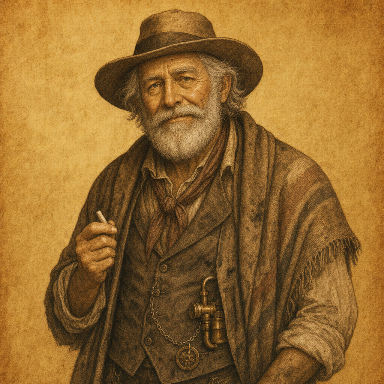
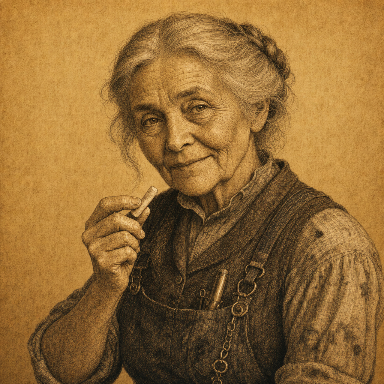
art: the Elder becomes a woman in both her portraits, and the Old Digger's portrait is the machine (owner A8, F-AGE-1 + F-AGE-3, 2026-09-07)
Owner ruling 2026-09-07, verbatim: "A8 F-AGE1: has to be adapted to be woman ...
F-AGE3: I don't understand the issue, a robot gets reprogrammed, that does not
change its visual appearance".

Three plates processed by the row-60 recipe (node scripts/extract-alpha.mjs
--full-bleed --size 384, constant alpha plane dropped): 384x384, 3-channel, 0
transparent px, 0 magenta px, max per-channel RGB delta 0 across the drop on all
three. The recipe was RE-PROVEN first, not inherited: three already-shipped
plates (townsfolk-elder-e2 from row 74, townsfolk-newsie-e5 and
townsfolk-tavernkeeper-e7 from row 75) re-processed BYTE-IDENTICAL, and the
measuring instrument reproduced row 74's and row 75's published corner and
centroid statistics exactly before it was trusted on anything new.

  townsfolk-elder.png     REPLACED  TL 139.7 / TR 137.5 / mean 138.6, centroid 194.8
  townsfolk-elder-e2.png  REPLACED  TL 134.0 / TR 128.4 / mean 131.2, centroid 193.1
  townsfolk-old-digger.png    NEW   TL 144.8 / TR 143.2 / mean 144.0, centroid 193.4

3/3 corner means inside the accepted 124-145 band, 6/6 corners clear the 120
floor (lowest 128.4), processed-vs-raw drift <= 0.1, centroids inside the
registered set's 184.3-198.5, so 50% still centres them. All three raws
re-measured from disk agree with artifacts/canon-calls-a8/generation.jsonl and
LEDGER row 76 exactly.

EYES-ON (the honesty guard's own test, evidence in reviews/shots-canon-calls-a8):
[…]

diff --git a/src/story/speakers.ts b/src/story/speakers.ts
@@ -85,7 +85,8 @@ export type StorySpeakerId =
   | 'preacher-e8'
   | 'preacher-e9'
   | 'preacher-e10'
-  | 'salvage-king-e8';
+  | 'salvage-king-e8'
+  | 'old-digger';
 
 export type StorySpeaker = {
   id: StorySpeakerId;
@@ -94,6 +95,21 @@ export type StorySpeaker = {
   objectPosition: string;
 };
 
+// THE ELDER IS A WOMAN, in the art as in the text (owner ruling 2026-09-07, verbatim: "A8 F-AGE1:
+// has to be adapted to be woman"; lore/characters.md:35 carries it as canon). The lore has written
+// her as "she" since the first cast sheet (lore/characters.md:32-33, her chart, her chalk, her chair
+// at lore/STORYBOOK.md:89) while the shipped plate was a bearded man - F-AGE-1, raised by the first
+// aging batch and ruled here. The FILENAMES below do not move: `townsfolk-elder.png` and
+// `townsfolk-elder-e2.png` are REPLACED in place by a woman's portrait and its aged E2 (git keeps
+// every version; the superseded man is recoverable from history, and the raw that made him,
+// assets/raw/townsfolk-elder.png, is retained on disk under CLAUDE.md section 4.10b and never
+// deleted). Sources: assets/raw/tf-elder-woman-e1.png and tf-elder-woman-e2.png, LEDGER row 77.
+// TIER CHANGE, stated because it is visible and not a defect: the superseded plate was a CHROMA-KEYED
+// cutout (RGBA, 68,277 transparent px of 147,456) because its 768x768 raw was 46.0% #8a8a8a ground;
+// the new plate is a FULL-BLEED parchment bust like every one of the 80 era portraits below and like
+// `char-prospector-portrait.png`, which has shipped in this same card since M1. The Elder's four
+// remaining E1 siblings (tavernkeeper, clerk, schoolteacher, preacher) are still keyed cutouts, so E1
+// now mixes the two tiers - as it already did through the Prospector, the era's most-seen speaker.
 const elderPortraitUrl = new URL('../../assets/processed/townsfolk-elder.png', import.meta.url).href;
 const tavernkeeperPortraitUrl = new URL('../../assets/processed/townsfolk-tavernkeeper.png', import.meta.url).href;
 const clerkPortraitUrl = new URL('../../assets/processed/townsfolk-assay-clerk.png', import.meta.url).href;
@@ -116,13 +132,20 @@ const preacherPortraitUrl = new URL('../../assets/processed/townsfolk-preacher.p
 // spelling. THE CHEN PARENTS are new faces rather than returning ones, so they carry their trade
 // where a 74x90 card can read it: lore/characters.md:54-55 names them CHEN WEI the pressman and CHEN
 // LAN the typesetter, and the given name leads here exactly as it leads in "Mei Chen".
-// WITHHELD, and stated rather than papered over (honesty guard, F-AGE-3): a nineteenth plate,
-// assets/raw/tf-old-digger-e10.png, was generated as "an ancient man" - but THE OLD DIGGER IS A
-// MACHINE in canon: the E9 boss, an ancient terraformer executing the Baron's century-old survey
-// (lore/STORYBOOK.md:544, :560, :675, ruling #15 at :722; src/game/Game.ts:1169 emits it as a boss;
-// src/game/TileStateStore.ts:12 flags it as kept machine #5). The plate is a good old prospector and
-// reads clearly at 120px, but it is not that character, so it is NOT registered and NOT processed
-// into assets/processed. The raw is kept. Owner call, LEDGER row 74.
+// RULED 2026-09-07 (owner, verbatim: "F-AGE3: I don't understand the issue, a robot gets
+// reprogrammed, that does not change its visual appearance"), and the withheld-plate note that stood
+// here is retired by it. F-AGE-3 asked whether the Old Digger's anthropomorphised plate
+// (assets/raw/tf-old-digger-e10.png, "an ancient man") could be registered under some other name; the
+// answer is that the question was the wrong one. THE OLD DIGGER IS A MACHINE and stays one through
+// the reprogramming, so ITS PORTRAIT IS THE MACHINE: lore/STORYBOOK.md:561 now carries the ruling
+// verbatim ("its portrait is the machine plate, never a face"), :544 makes it the Baron's charter,
+// :560 opens the boss with "no kill path; the fight is a REPROGRAMMING", :565 keeps it working as
+// kept machine #5 and :676 tabulates it; ruling #15 at :723; src/game/Game.ts:1205 emits its boss
+// lifecycle as `old-digger` and src/game/TileStateStore.ts:12 flags the kept machine.
+// `old-digger` below is therefore registered against assets/raw/tf-old-digger-machine-e9.png (the
+// bucket-wheel plate the batch-2 run minted as a machine alternate and LEDGER row 76 retained), NOT
+// against the man-face raw, which stays withheld, unprocessed and unregistered exactly as it was.
+// LEDGER row 77.
 const newsieE2PortraitUrl = new URL('../../assets/processed/townsfolk-newsie-e2.png', import.meta.url).href;
 const elderE2PortraitUrl = new URL('../../assets/processed/townsfolk-elder-e2.png', import.meta.url).href;
 const tavernkeeperE2PortraitUrl = new URL('../../assets/processed/townsfolk-tavernkeeper-e2.png', import.meta.url).href;
@@ -148,11 +171,20 @@ const schoolteacherE4PortraitUrl = new URL('../../assets/processed/townsfolk-sch
 // (CLAUDE.md section 8): `combine-defector-e6` and `combine-defector-e7` are one man in two
 // eras, `moon-born-child-e8` and `moon-born-child-e9` one child before and after growing. The
 // suffix also stops a reader assuming an E10 plate exists where none does.
-// TIER NOTE (measured, not inherited): these plates are FULL-BLEED parchment busts with NO
-// chroma key - assets/raw/tf-reactor-steward-e6.png keys 0/147456 px at the pipeline's own
-// #8a8a8a, while assets/raw/townsfolk-elder.png (the source of the seven above) is 46.22%
-// key-coloured. They are processed full-bleed at 384x384 like `char-prospector-portrait.png`,
-// which is the same tier and already one of the seven.
+// TIER NOTE (measured, not inherited). RE-STATED 2026-09-07 (canon-calls-a8): the exemplar this note
+// used to name has changed tier. It read "assets/raw/townsfolk-elder.png (the source of the seven
+// above) is 46.22% key-coloured" - true of ONE of the seven when written, and false now, because the
+// Elder's plate is a full-bleed woman's portrait from tf-elder-woman-e1.png and its old raw feeds
+// nothing any more. The contrast the note exists to draw is unchanged, so it is re-measured against a
+// raw that is still keyed. Definition stated so the numbers are reproducible: the extractor's own
+// predicate, keyDist = max per-channel distance from #8a8a8a <= tol 26 (scripts/extract-alpha.mjs:81),
+// counted over every pixel at native size. Under it, assets/raw/townsfolk-tavernkeeper.png (768x768,
+// one of the four E1 plates still keyed) is 41.83% key-coloured - 246,734 of 589,824 px - while
+// assets/raw/tf-reactor-steward-e6.png keys 0.00% and assets/raw/tf-elder-woman-e1.png keys 0/1048576.
+// The superseded 46.22% could not be reproduced under any of three readings of the old raw (46.01% at
+// native tol 26, 46.11% at tol+feather 40, 45.90% resampled to 384 at tol 26), which is why this note
+// now pins its definition instead of a bare number. These plates are processed full-bleed at 384x384
+// like `char-prospector-portrait.png`, which is the same tier and already one of the seven.
 // THE E5 / E8 / E10 CAST (portraits-e5-e10-generated-batch, 2026-09-06), the half of the era cast
 // the processing batch above could not serve because its plates did not exist yet. Owner ruling
 // 2026-09-06, verbatim: "if there are still higgsfield credits, use them". The ten plates were
@@ -249,6 +281,14 @@ const preacherE10PortraitUrl = new URL('../../assets/processed/townsfolk-preache
 // entry all say e8; the RAW keeps its minted name because assets/raw is never rewritten. A reader
 // looking for tf-salvage-king-e8.png will not find it; the E5 file is the one.
 const salvageKingE8PortraitUrl = new URL('../../assets/processed/townsfolk-salvage-king-e8.png', import.meta.url).href;
+
+// THE OLD DIGGER, E9's boss and the only speaker in this file that is not a person. Its plate is the
+// MACHINE (the ruling is quoted above and at lore/STORYBOOK.md:561): a bucket-wheel terraformer on
+// tracks, the Baron's crossed pickaxes struck on its drum, red spoil under it. The id carries NO era
+// suffix on purpose - the suffix convention exists because a person's face changes era to era, and
+// this one does not: "the Old Digger looks the same before and after the swap, in E9 and in any later
+// era" (STORYBOOK:561). A later era that gives it a line reuses this id.
+const oldDiggerPortraitUrl = new URL('../../assets/processed/townsfolk-old-digger.png', import.meta.url).href;
 
 // objectPosition for the era cast is '50% 42%' across the board, and that is MEASURED rather
 // than copied. The card crops with object-fit: cover into a 74x90 box (58x76 mobile), so a
@@ -856,6 +896,30 @@ export const STORY_SPEAKERS: Record<StorySpeakerId, StorySpeaker> = {
     id: 'salvage-king-e8',
     name: 'The Salvage King',
     portraitUrl: salvageKingE8PortraitUrl,
+    objectPosition: ERA_CAST_OBJECT_POSITION,
+  },
+
+  // THE OLD DIGGER (owner ruling 2026-09-07, F-AGE-3; LEDGER row 77). REGISTERED WITH NO BEAT, and
+  // that is the measured outcome rather than an omission: all four e9-digger-* beats are other
+  // speakers' reports ABOUT the machine, and the honesty guard in this batch's master re-keys only a
+  // line that is the machine's OWN words. The per-beat reasoning is in the LEDGER row; row 74's five
+  // beatless portraits are the precedent. A future E9/E10 line written in the Digger's own voice
+  // reaches this id and finds it ready.
+  // NAME: "The Old Digger" keeps its capital article for the same reason "The Salvage King",
+  // "The Baron", "The Eldest Heir" and "The Quack" above do - the title IS the name canon uses
+  // (lore/STORYBOOK.md:544, :560, :676 all set it as THE OLD DIGGER).
+  // objectPosition MEASURED, not copied: the ink centroid of the machine plate is 193.4 of 384, i.e.
+  // 1.4 px right of centre, deep inside the 184.3-198.5 band the 80 registered plates occupy, so the
+  // X term is 50% like all of them. The Y term is INERT here and the value is therefore the sibling
+  // constant rather than the 50% a machine plate might seem to want: every shipped portrait box is
+  // taller than wide (74x90, 58x76 mobile, and the ceremony card's clamp(74,9vw,112) x
+  // clamp(96,13vw,146) - src/story/story.css:186-187, :253-254, :106-107), so `object-fit: cover`
+  // scales a SQUARE source by height, leaves zero vertical overflow, and 42% and 50% render the same
+  // pixels. If a box ever renders wider than tall, the Y term wakes up and this plate wants 50%.
+  'old-digger': {
+    id: 'old-digger',
+    name: 'The Old Digger',
+    portraitUrl: oldDiggerPortraitUrl,
     objectPosition: ERA_CAST_OBJECT_POSITION,
   },
 };
